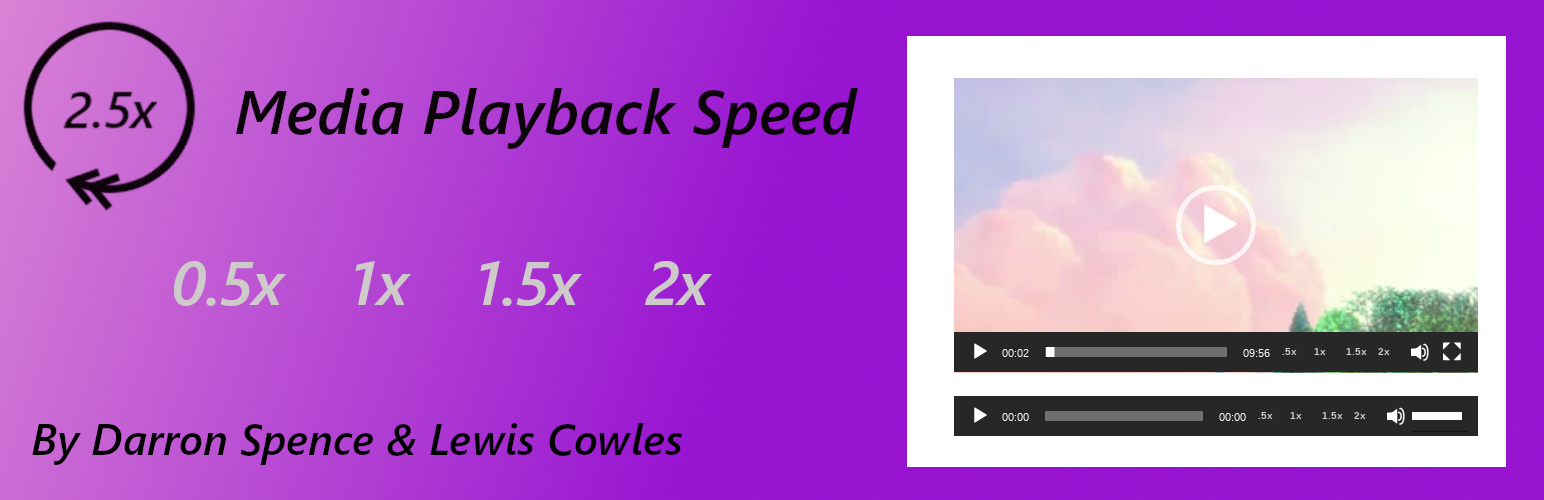
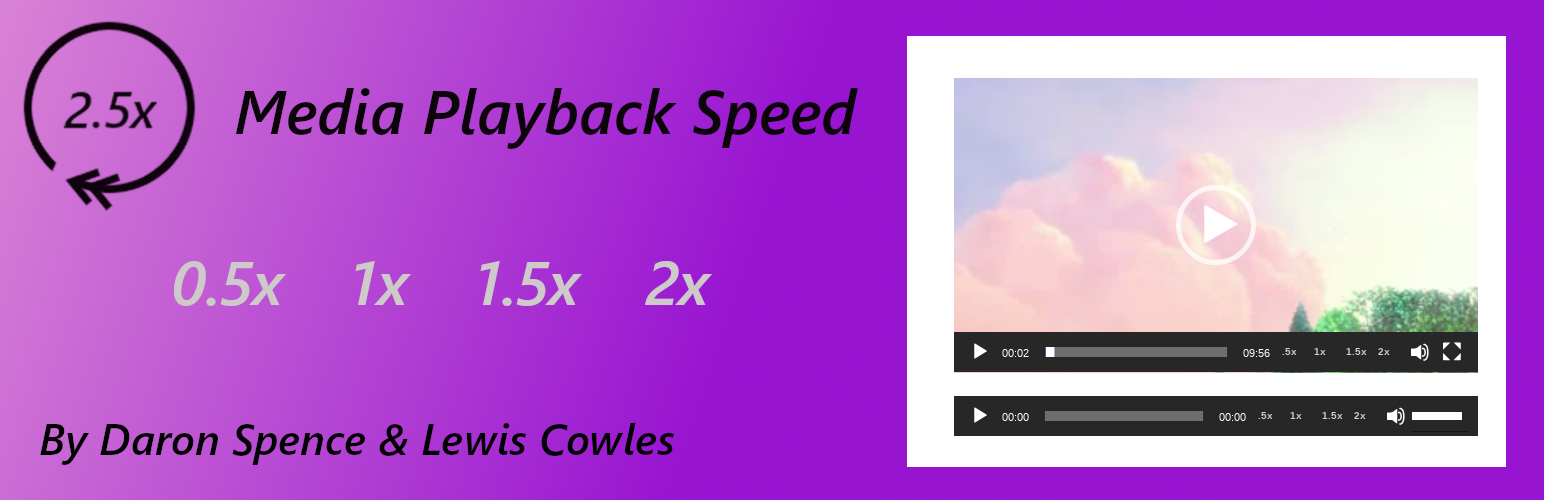
Correctly spell Daron name

Changed region(s): [[0.0, 0.84, 0.4663, 0.93]]

diff --git a/index.php b/index.php
@@ -3,7 +3,7 @@
  * Plugin Name: Media Playback Speed
  * Description: Appends playback buttons to the Audio Player, Video Player & PLaylist shortcodes. Based on original by Daron Spence.
  * Author: LewisCowles
- * Version: 1.1.7
+ * Version: 1.1.8
  */
 
 add_action( 'wp_enqueue_scripts', function() {
@@ -11,7 +11,7 @@ add_action( 'wp_enqueue_scripts', function() {
 		'cd2-media-playback-speed-js',
 		plugins_url( 'playback-speed.js', __FILE__ ),
 		[],
-		'1.1.7',
+		'1.1.8',
 		true
 	);
 }, 1, 100);
